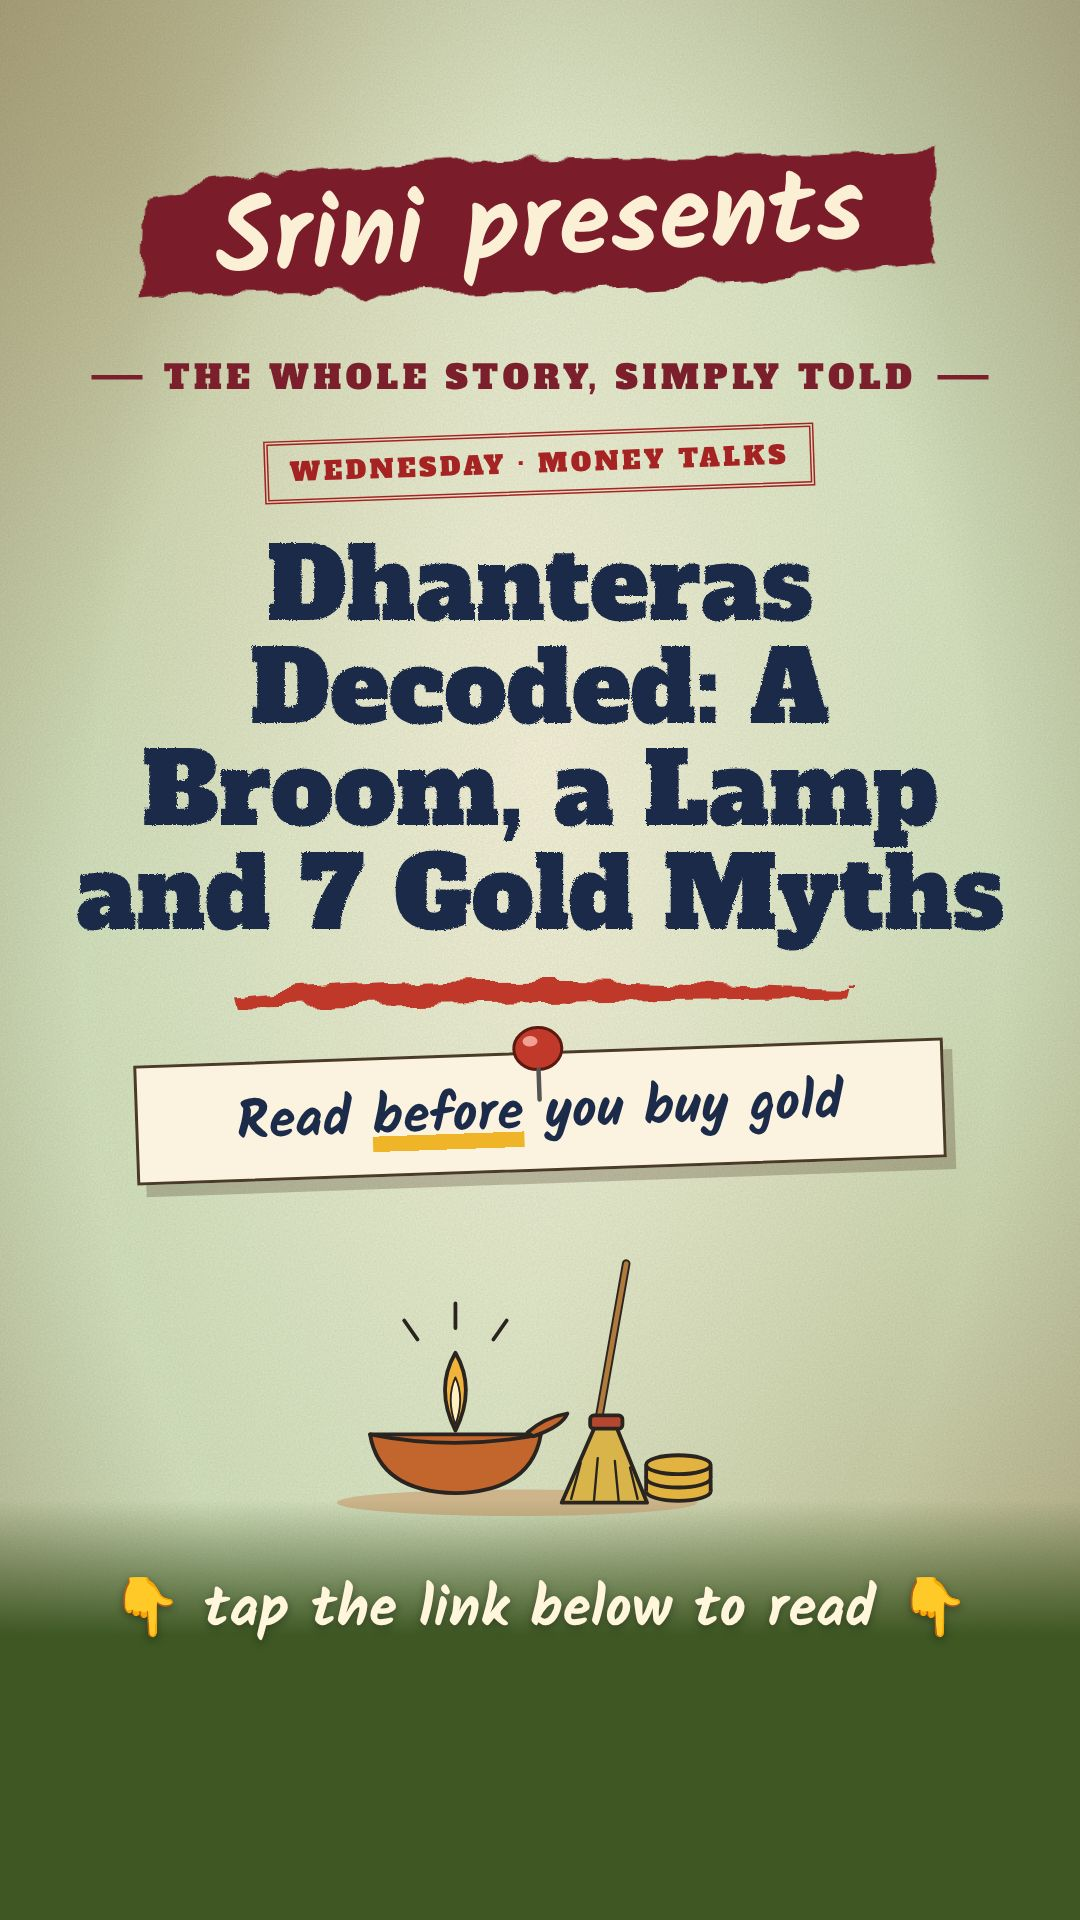
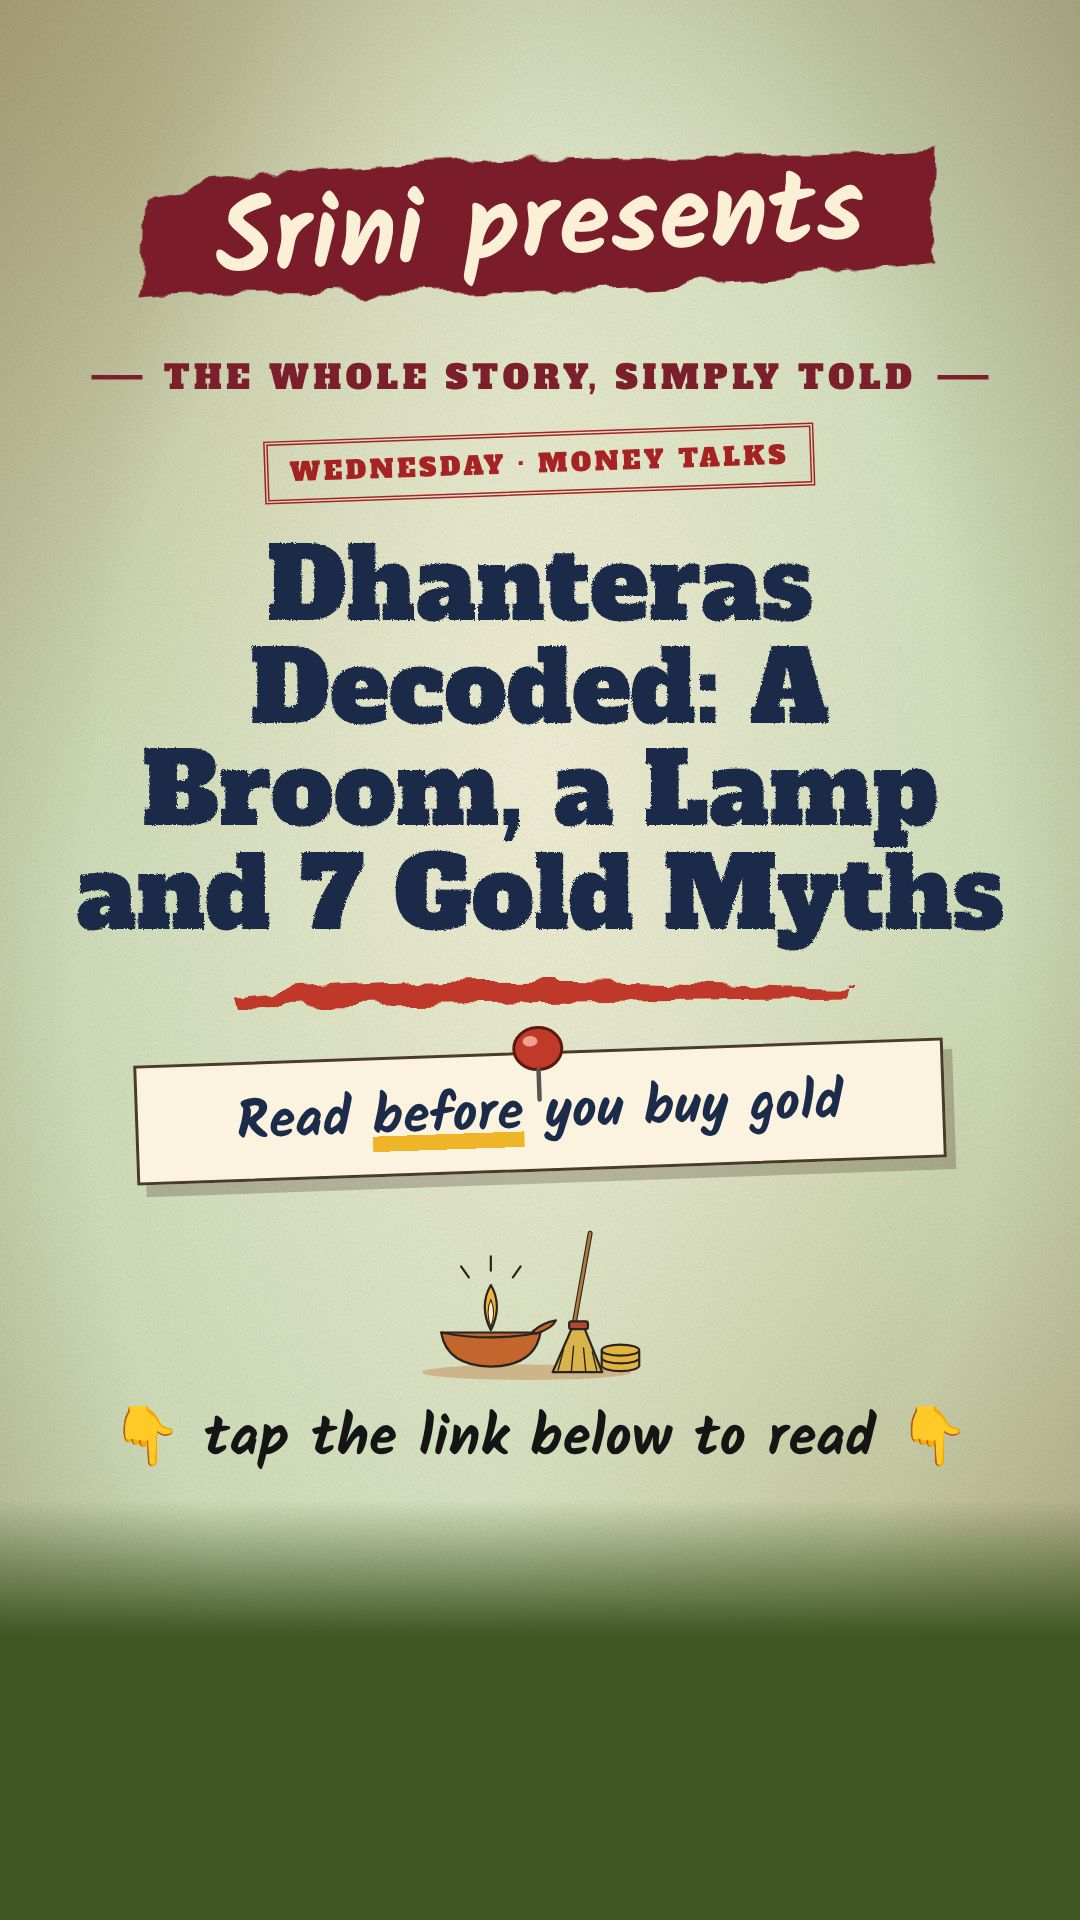
Tall card: black 'tap the link' hint just above the dark band
Claude-Session: https://claude.ai/code/session_01Qi2MpXsvdcXB5DZkNHcBZS

diff --git a/.github/share/card_story_template.html b/.github/share/card_story_template.html
@@ -4,7 +4,7 @@
 @font-face{font-family:'Kalam';font-weight:400;src:url(fonts/Kalam-Regular.ttf)}
 html,body{margin:0;padding:0}
 body{width:720px;height:1280px;overflow:hidden;font-family:'Kalam',cursive}
-.card{position:relative;width:720px;height:1280px;background:{{PAPER}};overflow:hidden;display:flex;flex-direction:column;align-items:center;box-sizing:border-box;padding:90px 40px 300px}
+.card{position:relative;width:720px;height:1280px;background:{{PAPER}};overflow:hidden;display:flex;flex-direction:column;align-items:center;box-sizing:border-box;padding:90px 40px 290px}
 .card::before{content:"";position:absolute;inset:0;background:
  radial-gradient(ellipse at 50% 40%,rgba(255,248,230,.75) 0%,rgba(255,248,230,0) 60%),
  radial-gradient(ellipse at 85% 92%,rgba(150,100,40,.22) 0%,rgba(150,100,40,0) 35%),
@@ -21,9 +21,10 @@ h1{margin:26px 0 0;width:632px;text-align:center;font:400 70px/1.04 'Alfa Slab O
 .note{margin-top:26px;width:500px;padding:20px 18px 16px;background:#fbf3df;border:2px solid #4a3a28;box-shadow:6px 8px 0 rgba(60,40,20,.25);transform:rotate(-2deg);text-align:center;font:700 36px/1.1 'Kalam';color:#1c2b4a;flex:none}
 .note u{text-decoration:none;background:linear-gradient(transparent 70%,#f0b429 70%,#f0b429 88%,transparent 88%)}
 .pin{position:absolute;left:50%;top:-22px;transform:translateX(-50%)}
-.art{flex:1 1 auto;width:640px;min-height:220px;margin-top:14px}
+.art{flex:1 1 0;width:640px;min-height:120px;margin-top:14px}
 .band{position:absolute!important;left:0;right:0;bottom:0;height:280px;background:linear-gradient(180deg,{{BAND0}} 0,{{BAND}} 90px,{{BAND}} 100%)}
 .band span{position:absolute;left:0;right:0;top:44px;text-align:center;font:700 38px 'Kalam';color:#fff6dc;opacity:1;text-shadow:0 2px 6px rgba(0,0,0,.35)}
+.hint{flex:none;margin-top:8px;font:700 38px 'Kalam';color:#151515;text-align:center;white-space:nowrap}
 .stamp{flex:none;margin-top:22px;transform:rotate(-2deg);border:3px double #9d0208;color:#9d0208;font:400 17px 'Alfa Slab One';letter-spacing:.14em;padding:6px 14px;opacity:.85;text-align:center;white-space:nowrap}
 </style></head><body>
 <div class="card">
@@ -43,7 +44,8 @@ h1{margin:26px 0 0;width:632px;text-align:center;font:400 70px/1.04 'Alfa Slab O
 <svg class="uline" width="420" height="30" viewBox="0 0 420 30"><path filter="url(#rough)" d="M4 18 Q140 4 300 10 T416 12 L414 20 Q280 22 150 24 T6 26 Z" fill="#c0392b"/></svg>
 <div class="note"><svg class="pin" width="44" height="54" viewBox="0 0 44 54"><ellipse cx="22" cy="18" rx="16" ry="14" fill="#c0392b" stroke="#5a1a12" stroke-width="2"/><ellipse cx="17" cy="13" rx="5" ry="3.5" fill="#f2a093"/><path d="M22 32 L22 52" stroke="#555" stroke-width="3" stroke-linecap="round"/></svg>{{NOTE}}</div>
 <svg class="art" viewBox="0 0 430 400" preserveAspectRatio="xMidYMid meet">{{ART}}</svg>
-<div class="band"><span>👇 tap the link below to read 👇</span></div>
+<div class="hint">👇 tap the link below to read 👇</div>
+<div class="band"></div>
 </div>
 <script>window.cardReady=document.fonts.ready.then(function(){var h=document.getElementById("t"),f=70;while(h.scrollHeight>300&&f>48){f-=2;h.style.fontSize=f+"px";}return true;});</script>
 </body></html>
